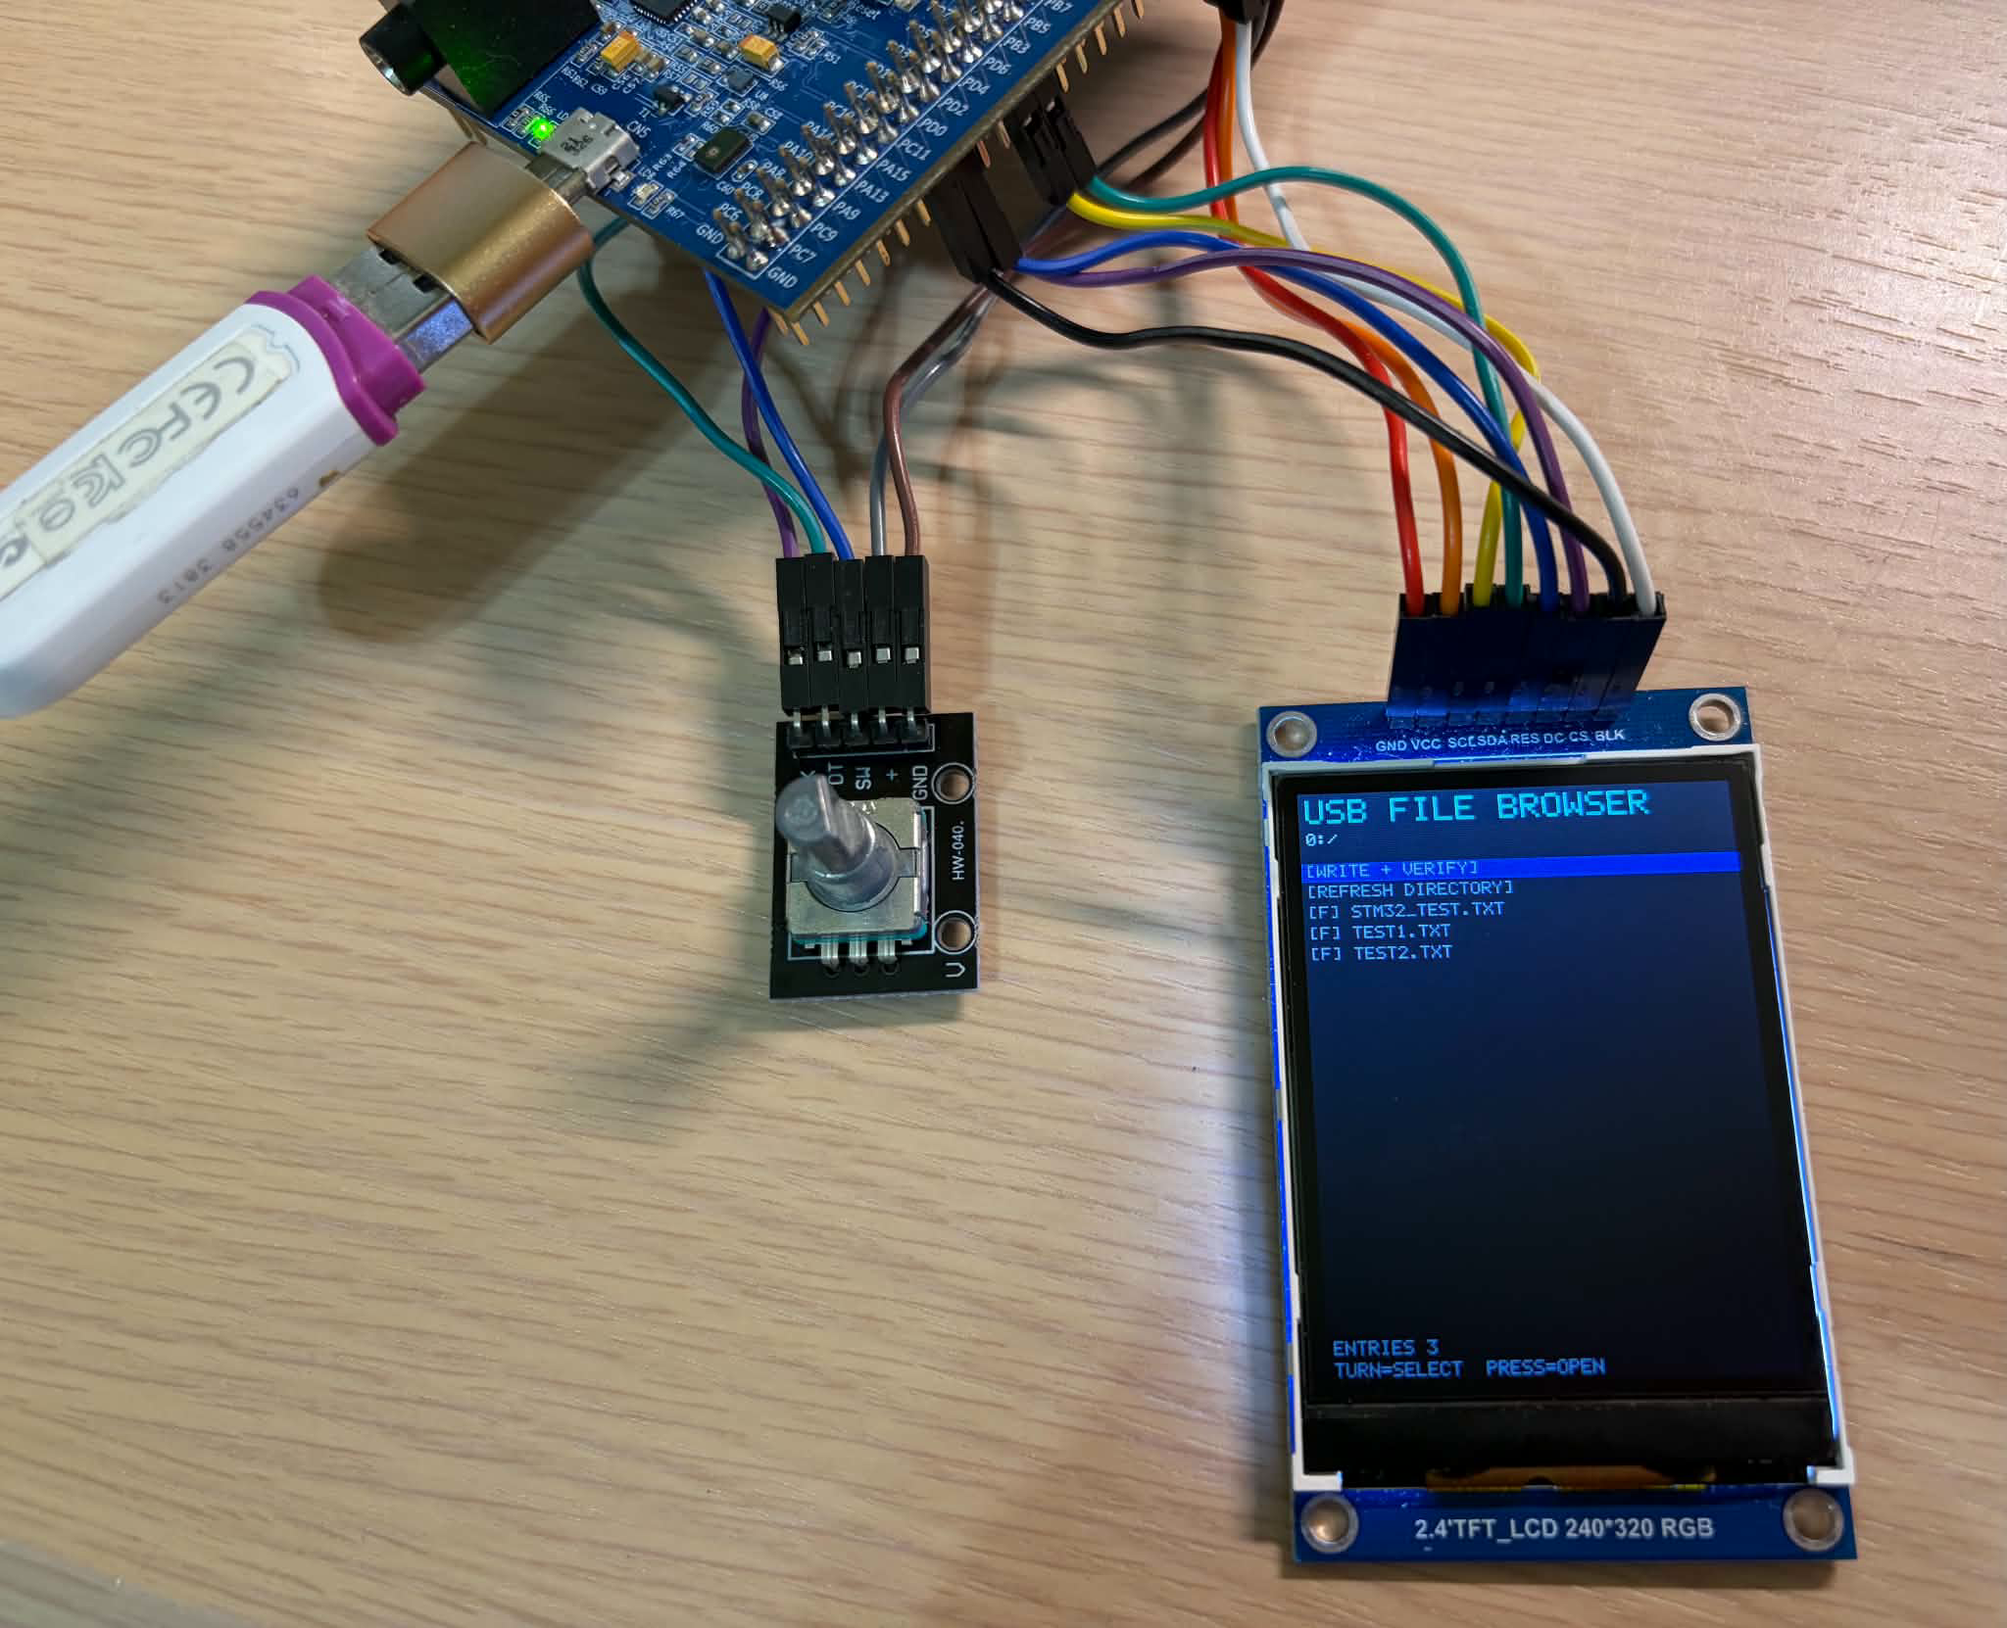
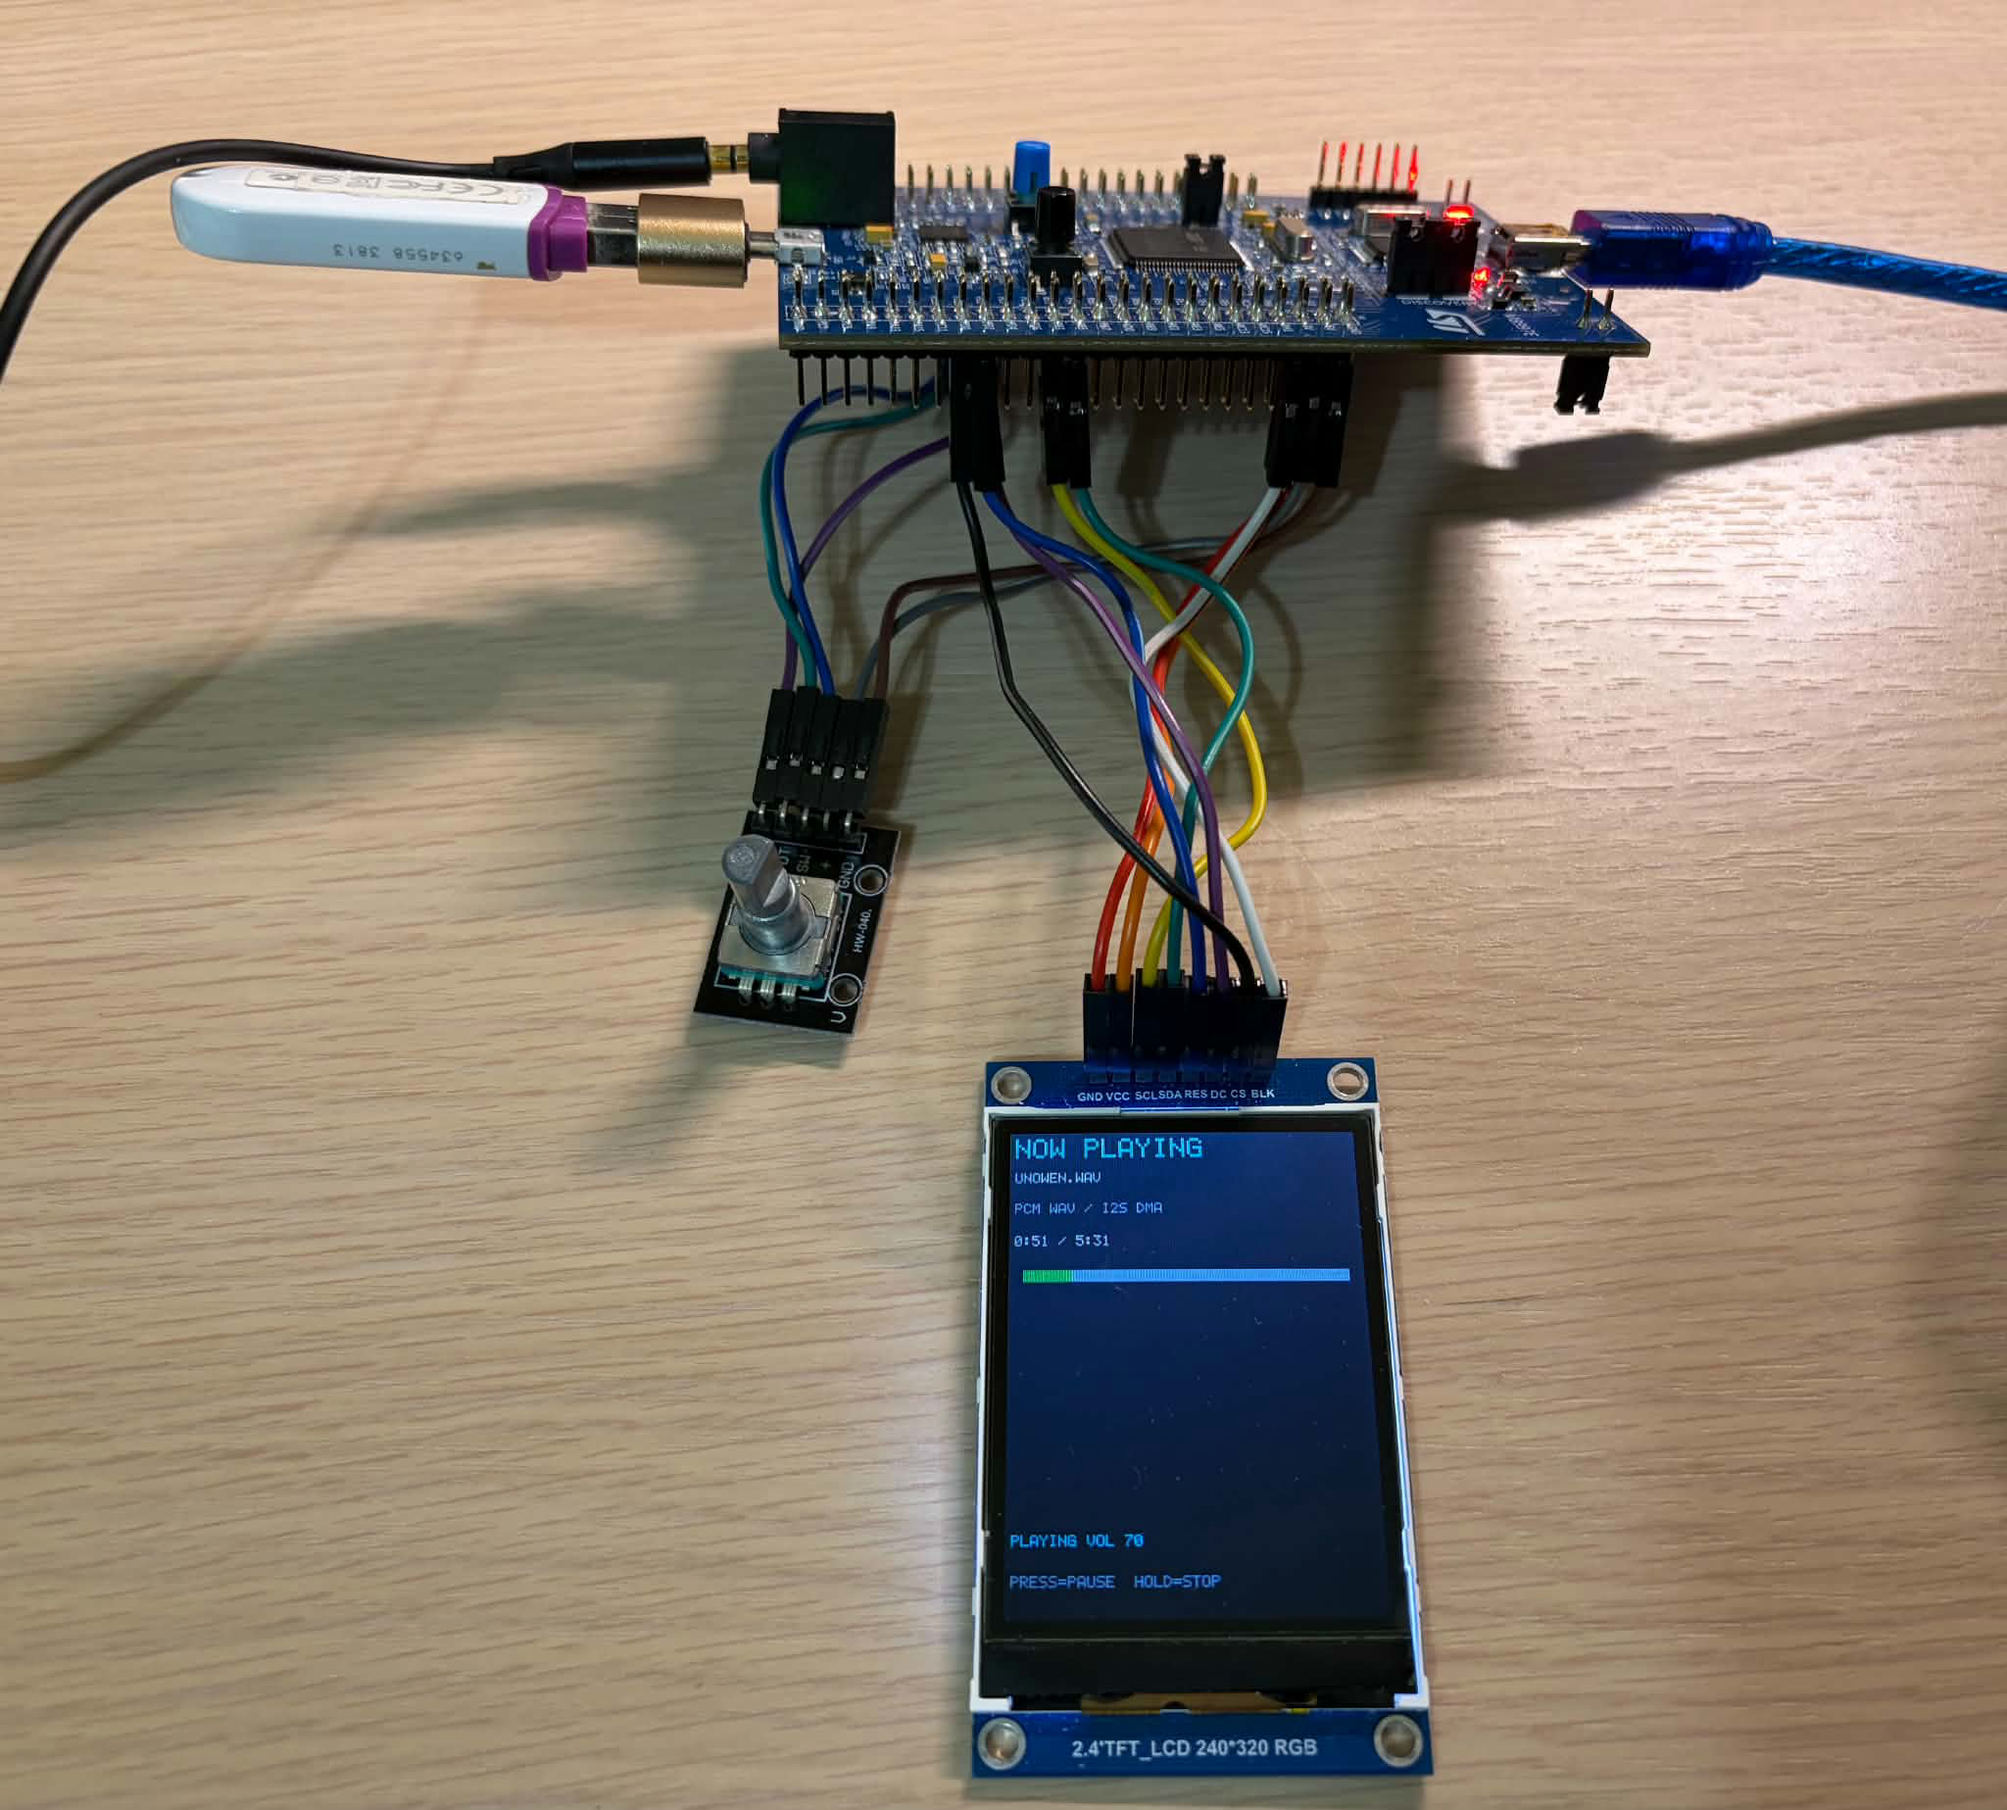
Remove playback screen text flicker
The previous "reduce flicker" was done by drawing at state change / elapsed second instead of constant redrawing.
There is still text flicker on the time and volume, which was caused by drawing black rectangle background followed by drawing glyphs at each update.
Added a text-box renderer to make it single-transfer.

diff --git a/USB-Audio-Player/Core/Src/tft.c b/USB-Audio-Player/Core/Src/tft.c
@@ -242,3 +242,44 @@ void tft_draw_text(uint16_t x, uint16_t y, const char *text, uint16_t color,
     x = (uint16_t)(x + 6u * scale);
   }
 }
+
+void tft_draw_text_opaque(uint16_t x, uint16_t y, uint16_t width, uint16_t height,
+                          const char *text, uint16_t color, uint16_t background,
+                          uint8_t scale)
+{
+  if (tft_spi == NULL || width == 0u || height == 0u || x >= TFT_WIDTH ||
+      y >= TFT_HEIGHT) return;
+  if ((uint32_t)x + width > TFT_WIDTH) width = (uint16_t)(TFT_WIDTH - x);
+  if ((uint32_t)y + height > TFT_HEIGHT) height = (uint16_t)(TFT_HEIGHT - y);
+  if (scale == 0u) scale = 1u;
+
+  if (!begin_memory_write(x, y, width, height)) return;
+  for (uint16_t row = 0u; row < height; ++row) {
+    for (uint16_t column = 0u; column < width; ++column) {
+      line_buffer[column * 2u] = (uint8_t)(background >> 8);
+      line_buffer[column * 2u + 1u] = (uint8_t)background;
+    }
+
+    if (text != NULL && row < 7u * scale) {
+      uint16_t text_x = 0u;
+      const uint8_t glyph_row = (uint8_t)(row / scale);
+      for (const char *character = text; *character != '\0'; ++character) {
+        if (*character == '\n' || text_x + 5u * scale > width) break;
+        const uint8_t *glyph = glyph_for(*character);
+        for (uint8_t glyph_column = 0u; glyph_column < 5u; ++glyph_column) {
+          if ((glyph[glyph_column] & (1u << glyph_row)) == 0u) continue;
+          const uint16_t first = (uint16_t)(text_x + glyph_column * scale);
+          for (uint8_t pixel = 0u; pixel < scale && first + pixel < width; ++pixel) {
+            line_buffer[(first + pixel) * 2u] = (uint8_t)(color >> 8);
+            line_buffer[(first + pixel) * 2u + 1u] = (uint8_t)color;
+          }
+        }
+        text_x = (uint16_t)(text_x + 6u * scale);
+        if (text_x >= width) break;
+      }
+    }
+
+    if (!spi_send(line_buffer, (uint16_t)(width * 2u))) break;
+  }
+  HAL_GPIO_WritePin(TFT_CS_GPIO_Port, TFT_CS_Pin, GPIO_PIN_SET);
+}

diff --git a/USB-Audio-Player/Core/Src/app.c b/USB-Audio-Player/Core/Src/app.c
@@ -368,8 +368,7 @@ static void draw_playback_dynamic(bool force)
     append_string(time_text, sizeof(time_text), elapsed);
     append_string(time_text, sizeof(time_text), " / ");
     append_string(time_text, sizeof(time_text), total);
-    tft_fill_rect(4u, 73u, 232u, 13u, TFT_BLACK);
-    tft_draw_text(4u, 74u, time_text, TFT_WHITE, 1u);
+    tft_draw_text_opaque(4u, 74u, 232u, 7u, time_text, TFT_WHITE, TFT_BLACK, 1u);
   }
 
   uint32_t progress = 0u;
@@ -391,8 +390,8 @@ static void draw_playback_dynamic(bool force)
     char state_text[32] = "";
     append_string(state_text, sizeof(state_text), paused ? "PAUSED VOL " : "PLAYING VOL ");
     append_u32(state_text, sizeof(state_text), volume);
-    tft_fill_rect(4u, 268u, 232u, 13u, TFT_BLACK);
-    tft_draw_text(4u, 269u, state_text, paused ? TFT_YELLOW : TFT_CYAN, 1u);
+    tft_draw_text_opaque(4u, 269u, 232u, 7u, state_text,
+                          paused ? TFT_YELLOW : TFT_CYAN, TFT_BLACK, 1u);
   }
 
   displayed_elapsed_seconds = elapsed_seconds;

diff --git a/USB-Audio-Player/Core/Inc/tft.h b/USB-Audio-Player/Core/Inc/tft.h
@@ -24,5 +24,9 @@ void tft_fill_rect(uint16_t x, uint16_t y, uint16_t width, uint16_t height,
 void tft_clear(uint16_t color);
 void tft_draw_text(uint16_t x, uint16_t y, const char *text, uint16_t color,
                    uint8_t scale);
+/* Draw one text line and its background as a single ILI9341 memory write. */
+void tft_draw_text_opaque(uint16_t x, uint16_t y, uint16_t width, uint16_t height,
+                          const char *text, uint16_t color, uint16_t background,
+                          uint8_t scale);
 
 #endif
